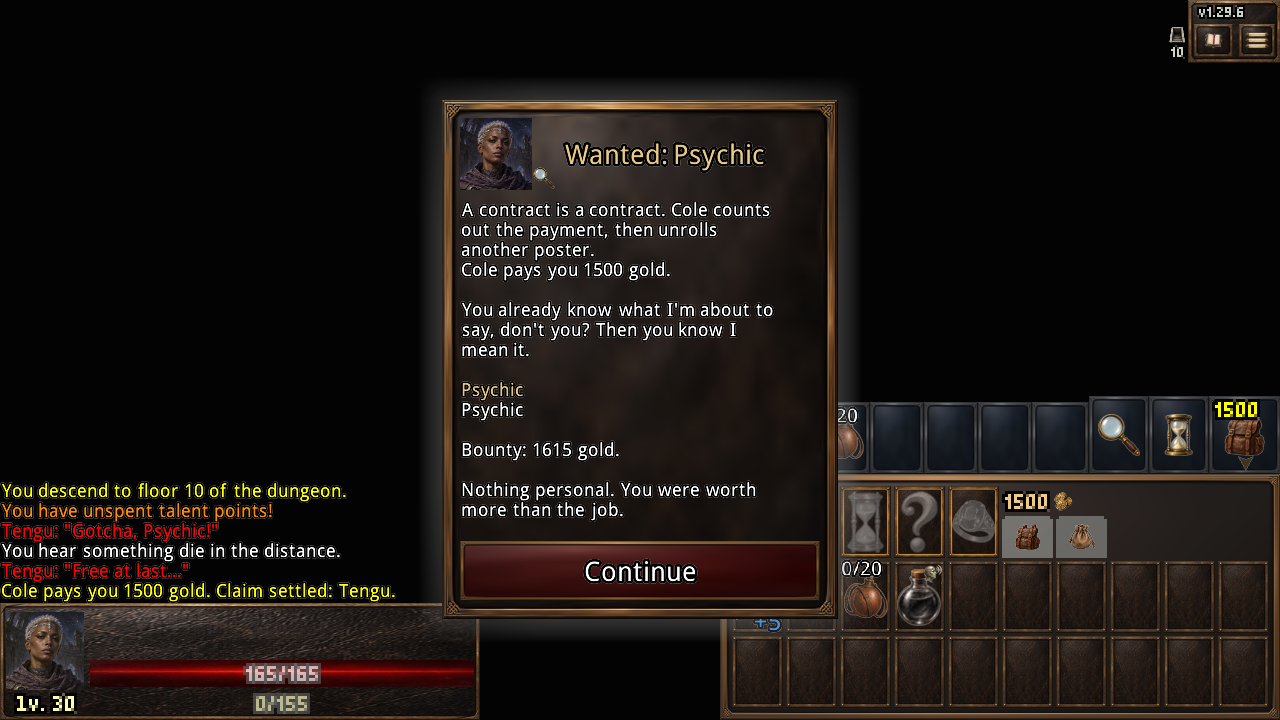
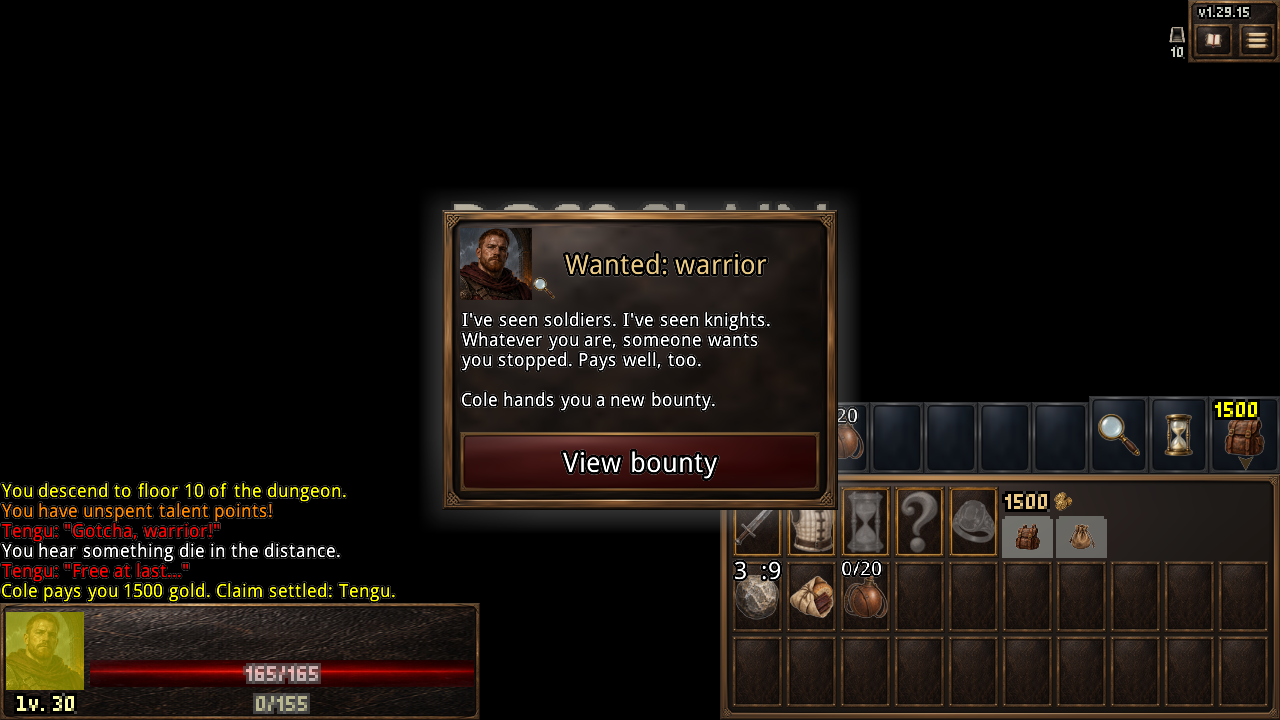
Release 1.29.15 with soul nourishment, clearer descriptions and verified playtest fixes

diff --git a/core/src/main/java/com/shatteredpixel/shatteredpixeldungeon/ui/changelist/GrimhollowChanges.java b/core/src/main/java/com/shatteredpixel/shatteredpixeldungeon/ui/changelist/GrimhollowChanges.java
@@ -20,7 +20,11 @@ public final class GrimhollowChanges {
         release.addButton(new ChangeButton(icon.get(),title,text));
     }
     public static void addAllChanges(ArrayList<ChangeInfo> list) {
-        ChangeInfo r=release(list,"v1.29.14","Whispers against hunger. Clearer knowledge, room for discovery.");
+        ChangeInfo r=release(list,"v1.29.15","A stronger legion. A hunter's payment, then a new face on the board.");
+        note(r,Icons.TALENT,"Bone Legion","Deathspeakers can invest three ranks. Newly raised servants remain bound for 5/10/15 additional turns; rank three also permits one more servant. Existing ranks and servants' remaining time are preserved.");
+        note(r,Icons.JOURNAL,"Cole's handover","Speak to Cole at the Prison stairs and accept payment before his separate betrayal conversation. He hands over your own Wanted Poster, kept in inventory and in your run's Deeds. Rereading it cannot pay a bounty or alter the quest.");
+        note(r,Icons.INFO,"Wanted quarries and the Horror","Unfinished bounties recover missing target references, preserving living quarries and starting urgency only after placement. Horrors have stronger regional combat baselines and can defend themselves against dungeon denizens when cornered. Their warning and escape rules remain.");
+        r=release(list,"v1.29.14","Whispers against hunger. Clearer knowledge, room for discovery.");
         note(r,Icons.TALENT,"Soul Sustenance","The Necromancer's former Soul Siphon becomes Soul Sustenance. Kills made while the Phylactery is already full can quiet hunger, including kills by raised servants. Two ranks restore 10/20 hunger turns, up to 60/120 per floor. Summoned and rewardless victims do not qualify. This replaces health drain without healing or triggering eating talents; invested ranks are retained.");
         note(r,Icons.JOURNAL,"Knowledge and mystery","Added talents, spells and equipment again describe their useful effects, costs and progression alongside their stories. Quest clues and dangers remain readable; hidden bargains and exceptional interactions remain yours to discover.");
         r=release(list,"v1.29.13","Danger earns its treasure.");

diff --git a/verification/ACCEPTANCE.md b/verification/ACCEPTANCE.md
@@ -1,3 +1,14 @@
+# Soul, descriptions and playtest follow-up - v1.29.15
+
+- `gradlew.bat core:test core:smokeRun desktop:dist android:assembleDebug --no-daemon --console=plain`: **BUILD SUCCESSFUL in 1m 22s; Runs=30 failures=0**. Eight JUnit tests have zero failures/errors. Soul Sustenance covers both ranks, full-before-kill eligibility, hero/minion attribution, bonus charges, excluded summons/replacements, normal hunger/no healing, legacy ranks and saved floor/branch budgets. Bone Legion covers all four servants, 5/10/15 extra binding turns, the rank-three-only slot, saved timers and legacy rank-one investments.
+- Final additional `core:test core:smokeRun -PsmokeClass=NECROMANCER`: **BUILD SUCCESSFUL in 45s; Runs=10 failures=0**, including inventory delivery, full-backpack floor fallback, immutable personal poster serialization and once-only handover/payment. Final poster-only Windows/Android rebuild: **BUILD SUCCESSFUL in 52s**.
+- Horror scenario: **60/64** victories in cornered floor-11 fights with ordinary Cave Spinners at default damage, including poison. **200/200** full-health floor-two rats die to predation at 100%/200% settings. Regional health/damage, ordinary retaliatory attacks, prior-save injury/recovery fractions, no resurrection, finite healing and wanted-quarry protection pass. Native Horror review passes both orientations: eight ambush directions, no bronze marker, optional popup, retained log, fresh-action response, entity-only detection, remains/Bone Wall examination and saved toggle; **TEST 60 NATIVE PASS; failures=0**.
+- Reported seed **3848062306978** plans **Voss the Cellbreaker on dungeon floor 9**. All three accepted quarries appear on their promised floors and survive disk reload. Blocked placement cannot consume urgency; orphaned unfinished target records recover; existing wounded actors rebind without duplicate stats, healing or clock reset. Completed targets cannot respawn. The user's original tablet save was unavailable, so its exact historical failure is not claimed as reproduced.
+- Final native Bounty review passes both landscape/mouse and portrait/touch: payment dialogue remains unpaid until **Accept bounty**, then a separate betrayal dialogue ends **Cole hands you a new bounty**, then the hero's Wanted Poster appears and is kept. Both actual Prison bosses, mask rewards, no automatic boss-death settlement, no repeated payment/handover, Cole departure, inventory poster and ranked Deeds/archive pass; **BOUNTY UI PASS; failures=0**. The final poster uses the existing full-resolution class painting. Selected captures are retained under the existing verification interface folders.
+- Balanced-description native interface and class-presentation suites pass both orientations, with real long-description scrolling and explicit rank progression. Lantern/Chart values and Rune Etching placeholders resolve. The presentation fixture waits for the initial hero action before rebuilding its review room. No gameplay changes beyond the approved talents/Horror/bounty fixes, no generated art and no terrain contrast test.
+- Final compiled audit: **classes=3064 guarded browser sinks=1 HTTP/socket calls=0 failures=0**. Windows launcher `desktop/build/windows/1.29.15/Grimhollow/Grimhollow.exe`; bundled JAR matches the tested JAR, SHA256 **7AEF4B47467860E15BB3E3646FAE157BFF3CDE5D5880099D839602DE1FF35A3B**. APK `android/build/outputs/apk/debug/android-debug.apk`, manifest **1.29.15-INDEV / versionCode 1014**, rebuilt **2026-10-09 19:51 EDT**, SHA256 **276A688C50B7A23CD122BFF016CEDEF7D9A250E5E1A15393A98F7440E61C4838**.
+- Physical Samsung tablet and full-campaign balance remain **NOT RUN**. Test 45 remains **Abandoned: test failed** and is not rerun. Initial formatting/headless fixture failures were repaired; they are not counted as passing. Every CI check remains enabled; exact release CI is reported at delivery.
+
 # Quest pressure - v1.29.13
 
 - Release tag **v1.29.13-quest-balance**, game commit **b3a98cc99d53b262f71d79e2a61391c5705bc681**: [CI run 37973562389](https://github.com/BryanHartling/grimhollow/actions/runs/37973562389) passed **all seven jobs**: Windows/Linux desktop, Android, each ten-run class gate and the combined thirty-run gate. Full art provenance, compiled audit, five-region fog, live encounters, both native expedition layouts and class-selection/progression passed on this exact release.

diff --git a/KNOWN_ISSUES.md b/KNOWN_ISSUES.md
@@ -1,5 +1,8 @@
 # Known issues
 
+- v1.29.15: Physical Samsung tablet and full-campaign balance remain NOT RUN. The reported bounty seed is verified, but the original tablet save was unavailable; no exact cause for its lost Voss is claimed. The patch repairs unfinished missing-reference records and protects wanted quarries from Horror predation. Existing dead Horrors are not resurrected. Test 45 remains Abandoned: test failed and is not rerun.
+- v1.29.15 verification: Initial description formatting and headless Horror fixture failures were corrected before final passing gates; native-only poison splash and loot callbacks are isolated in the existing combat fixture while actual attacks and poison still run. The authorized Git/build route is used; sandboxed CIM process inventory was unavailable, so work continued through existing build sessions. No checks or thresholds were weakened.
+
 - v1.29.13 CI: Release tag v1.29.13-quest-balance at b3a98cc99 passed all seven jobs in run 37973562389. The identical commit's branch run 37973562376 failed unchanged effects test 31 (mean 1.8352 ms, p95 2.4639 ms; both must be below 2 ms) and a concurrent room-rebuild race in the portrait screenshot fixture (Hero.act:874). All five-region fog assertions and both expedition layouts passed. GitHub denied the failed-job retry with HTTP 403; the failed run remains in place and no check or threshold was weakened. This follow-up changes documentation only, not the delivered game or packages.
 
 - v1.29.13: Physical Samsung tablet and full-campaign Dragon/Vault balance remain NOT RUN. Existing device balance overrides and generated cavern supplies are preserved; reset tuning for the new damage default and generate a new cavern to change its guaranteed rations. Vault partial guardian credit is corrected; the earlier v1.29.12 issue is superseded. The first combined gate needed the reused Psychic fixture's initial hunger actor restored; final gates pass. Test 45 remains Abandoned: test failed and is not rerun.

diff --git a/README.md b/README.md
@@ -132,6 +132,8 @@ Grimhollow's descriptions combine flavor with useful gameplay information. Items
 
 **Soul Sustenance v1.29.14:** Necromancer's tier-two Soul Siphon is replaced. A qualifying kill while the Phylactery was already full restores 10/20 normal hunger turns, limited to 60/120 per floor. Raised servants can earn this nourishment; summoned and rewardless enemies cannot. The benefit never heals or triggers food talents. Invested ranks survive, and saving, revisiting or changing floors cannot reset an allowance.
 
+**Playtest follow-up v1.29.15:** Bone Legion grants 5/10/15 additional binding turns, with the extra summon slot at rank three. Cole's stairs meeting separates payment acceptance, betrayal and the physical personal Wanted Poster. Pending bounties recover missing quarry references and wait for placement before starting urgency. Horror combat strengthens by region, with ordinary counterattacks against denizens when cornered; warning/response and escape rules remain.
+
 Playtest groups expedition travel and tuning, Hatchling/companion settings, class items and custom enemies. Submenu pages persist on this device; within the same loaded run, **Resume last menu** returns to the last submenu. Every submenu also has **Main Playtest menu**. **Generation toggles** persist across games and filter future random pools without deleting belongings or replacing fixed quest essentials. They keep required pools nonempty and mark affected games as custom balance independently of save-local tools.
 
 Individual and bulk recharge fill the Waterskin. The Hatchling warning stops queued travel/rest and opens a modal popup, including when an imminent warning is restored from a save. The Doubloon has no explicit feeding shortcut; ordinary Hatchling feeding remains available. Golden Mimic directions work from its harness and examination.

diff --git a/DESCRIPTION-SPRINT.md b/DESCRIPTION-SPRINT.md
@@ -9,3 +9,5 @@ Approved scope, 2026-10-09:
 Each implementation component will be committed separately. Check usage before beginning the description component; deliver the final build at a clean boundary.
 
 Completed locally: Soul Sustenance, balanced descriptions, combined headless Runs=30 failures=0, eight unit tests, Windows/Android builds, and interface/presentation checks in both orientations. The approved follow-up adds three-rank Bone Legion, Cole's staged payment/betrayal and personal poster, wanted-target/urgency repair for seed 3848062306978, and stronger Horror survival/combat. Package and CI delivery will cover both components together.
+
+Follow-up complete locally: all four servant types and legacy ranks, three-step Cole handover and physical poster (including full pack), reported-seed quarry/clock repair, stronger regional Horrors and saved-state migration. Final Bounty/Horror native suites pass both orientations. Version 1.29.15/code 1014 packages and compiled audit pass; release delivery includes all components.
